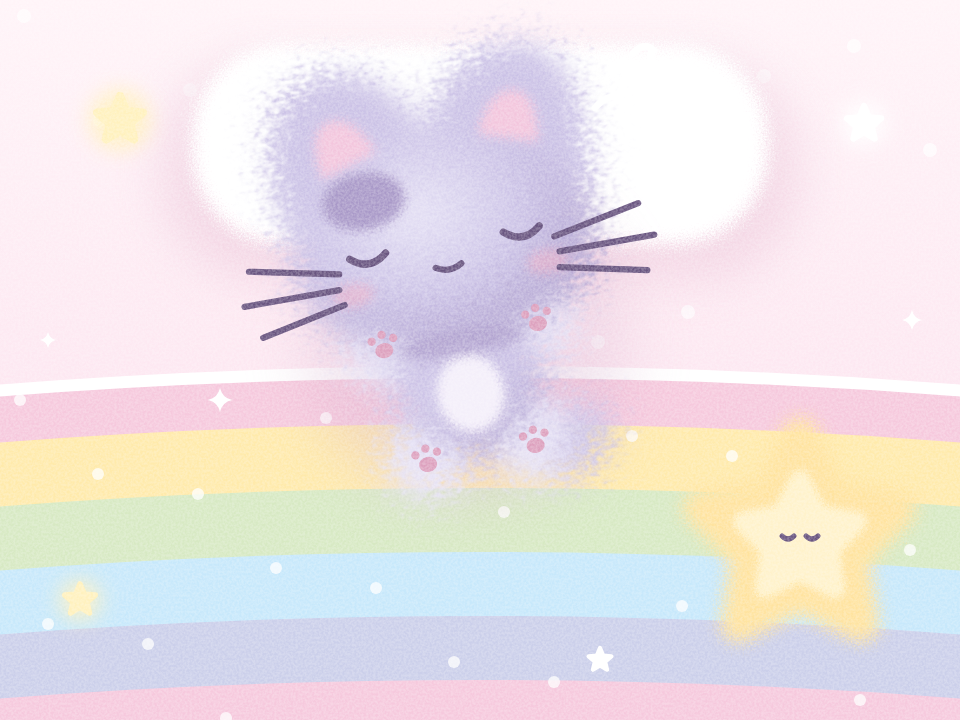
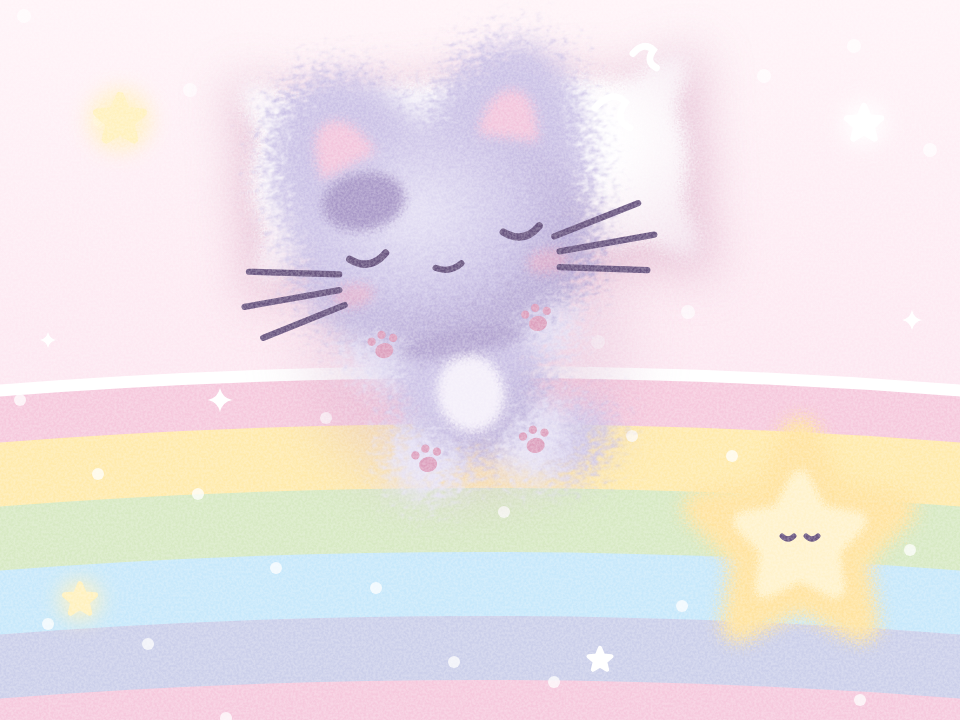
Give the Rainbow Quilt pillow a soft four-corner silhouette

Changed region(s): [[0.6875, 0.0611, 0.7812, 0.3361], [0.2188, 0.1222, 0.2812, 0.3361], [0.625, 0.0611, 0.6562, 0.1222]]

diff --git a/SKILL.md b/SKILL.md
@@ -162,7 +162,9 @@ The card **is** the surface — no horizon, no perspective. Fill it with a gradi
 |---|---|---|---|
 | Water | radial `#EFF9FC → #C7E8FB → #AFD8ED` | lime lily pads `#C0DDAF`, white light patches, a pink floating flower | reflected stars, twinkles |
 | Grass | radial `#FFFFF7 → #E7F3E2 → #C7E6E8` | three-heart clovers `#C0DDAF` | white / pink / lilac five-petal flowers with yellow centres, pale grass flicks `q2 -7 5 -10` (stroke 2.4) |
-| Bed | pink sheet `#FFF4F8 → #FBDCEB` | white pillow (big rounded rect), lemon star cushion | a rainbow-striped quilt (pink, lemon, mint, soda, lavender) with a curved hem and white dots |
+| Bed | pink sheet `#FFF4F8 → #FBDCEB` | plump white pillow with four softly pinched cloth corners and gently bowed sides, lemon star cushion | a rainbow-striped quilt (pink, lemon, mint, soda, lavender) with a curved hem and white dots |
+
+Shape a bed pillow as one full, gently bowed form with four rounded corners that flare slightly past the sides. Make the corner pinches broad enough to survive the xx-soft filter. Feather the entire silhouette into the sheet and show the loft with a white centre and a faint blush shadow underneath.
 
 Others work the same way: a picnic blanket, a cloud, a pile of laundry, a tatami mat, a bath with bubbles.
 
